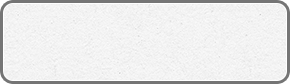
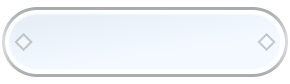
修改: 场景地图中按钮UI

diff --git a/app/components/maps/SceneMap.js b/app/components/maps/SceneMap.js
@@ -215,12 +215,8 @@ const Grid = (props) => {
     gridImg = require('../../../assets/button/scene_map_button2.png');
   }
 
-  const borderEffect = isCenterPoint
-    ? { borderWidth: 1.5, borderColor: '#31aac8', borderRadius: 5 }
-    : {};
-
   return (
-    <View style={[{ position: 'absolute', width: GRID_PX_WIDTH, height: GRID_PX_HEIGHT, justifyContent: 'center', alignItems: 'center' }, { left, top }, borderEffect]}
+    <View style={[{ position: 'absolute', width: GRID_PX_WIDTH, height: GRID_PX_HEIGHT, justifyContent: 'center', alignItems: 'center' }, { left, top },]}
       onTouchStart={() => {
         touchStart = true;
       }}
@@ -239,6 +235,7 @@ const Grid = (props) => {
     >
       <FastImage style={{ position: 'absolute', zIndex: 0, width: '100%', height: '100%' }} source={gridImg} />
       <Text style={{ color: '#000', zIndex: 1 }}>{props.data.title}</Text>
+      { (isCenterPoint) ? <FastImage style={{position: 'absolute', width:px2pd(310), height: px2pd(94)}} source={require('../../../assets/button/scene_map_buttonF.png')} /> : <></>}
       {(isCenterPoint) ? <CentPointAnimation /> : <></>}
       {(props.data.icon != undefined && props.data.icon.show) ? (<BtnIcon id={props.data.icon.id} style={{}} />) : <></>}
     </View>
